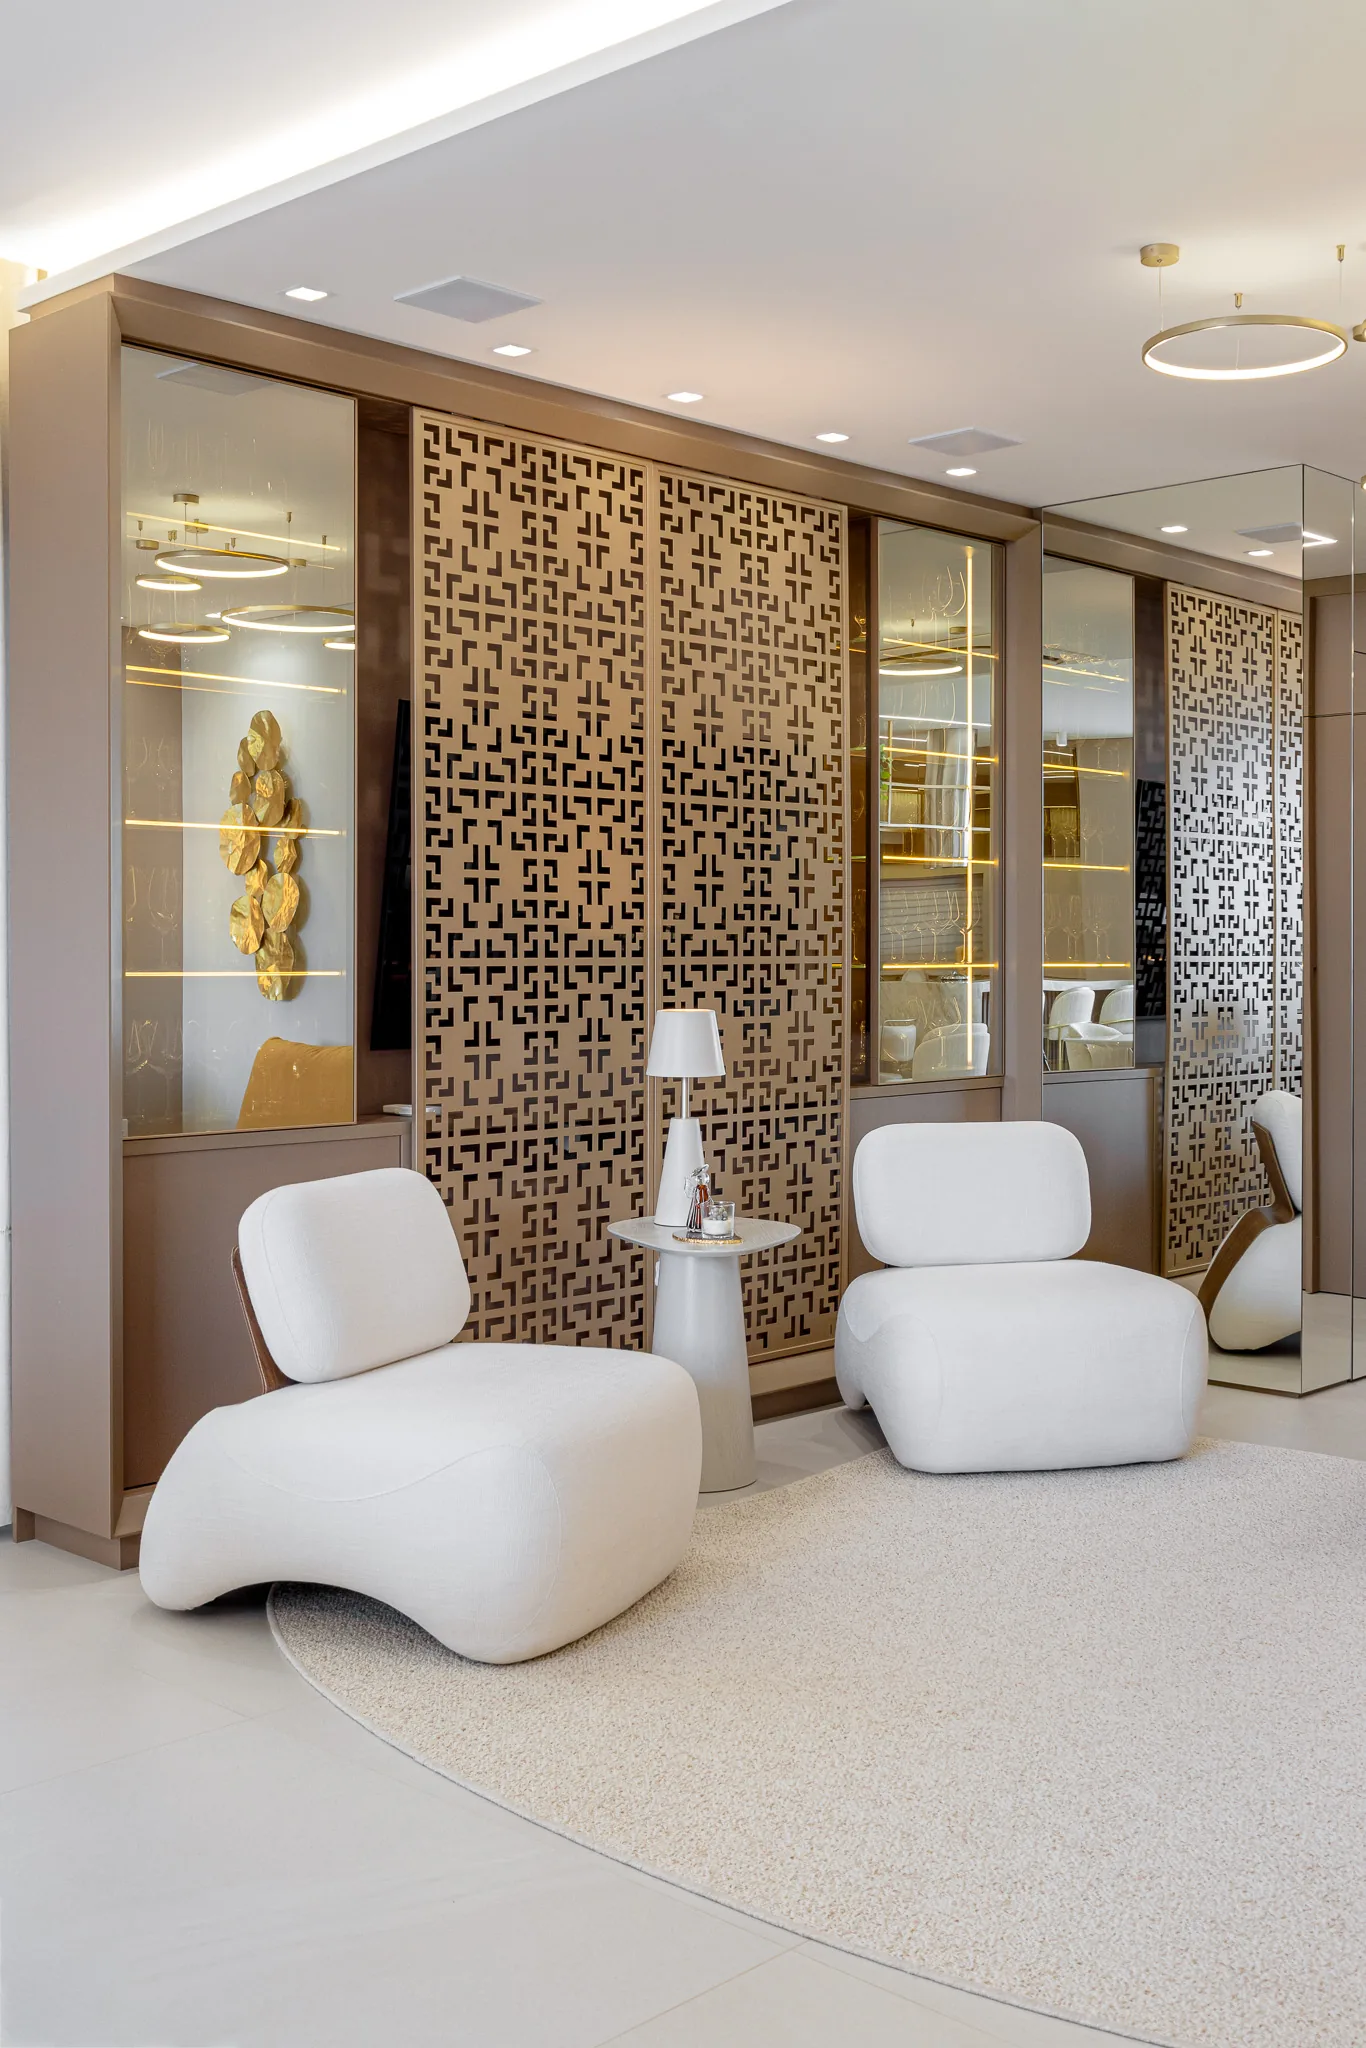
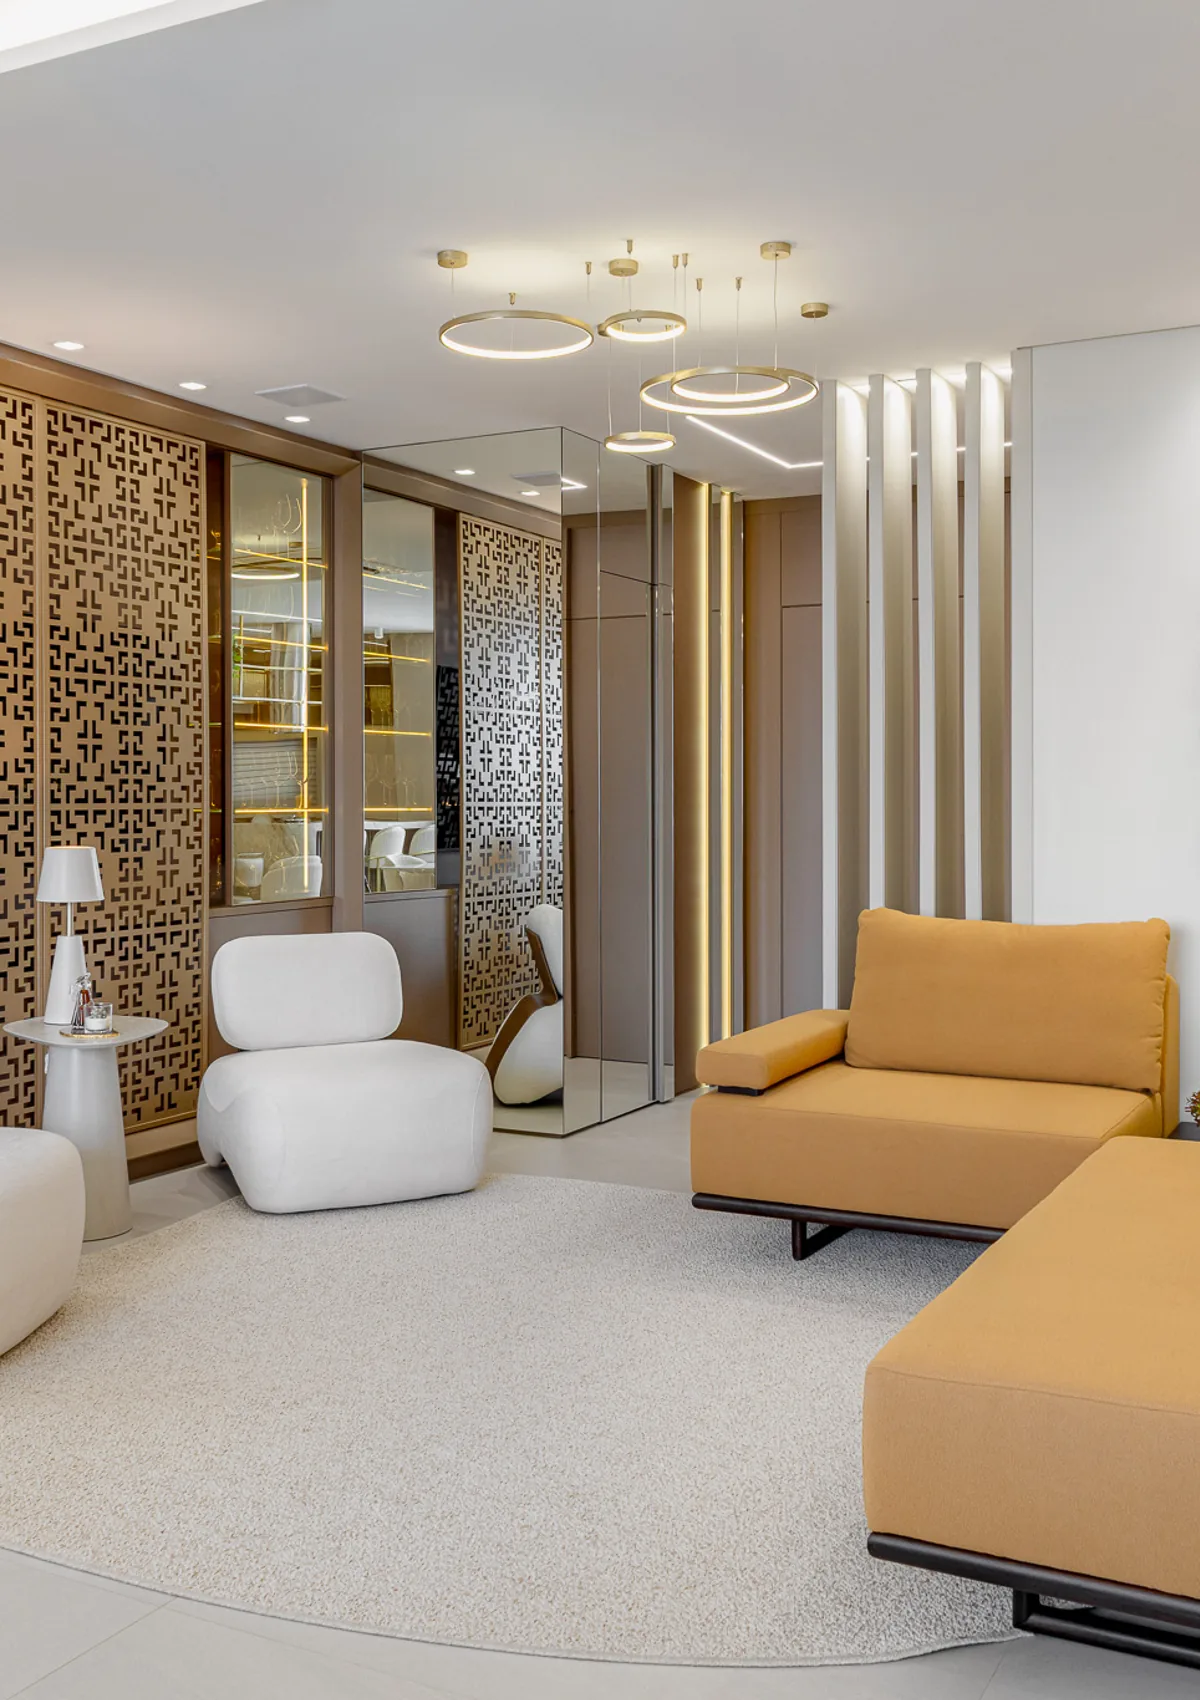
Nova headline, nova imagem de hero e menu mobile menor
Headline: "para interiores que ficam" era genérica e "ficar" é ambíguo
em português (durar? ficar bonito?). Agora "onde sua história vira
projeto", tirado do texto oficial da arquiteta ("cada projeto nasce das
histórias, vivências e necessidades de quem vai ocupá-lo"). Fala com o
cliente em vez de falar sobre o escritório. A primeira linha segue com
a palavra-chave, então o SEO não muda.

Removido o <br> fixo: com o texto novo ele forçava 3 linhas no desktop.
Sem ele, text-wrap:balance resolve em 2 linhas (2 a 3 no mobile).

Hero: a imagem passa a ser o estar da Cobertura Cura — tem profundidade
de ambiente, painel vazado em latão e cristaleira iluminada, com a área
esquerda calma o bastante para o texto. A anterior era a sala de jantar,
mais plana e com a mesa competindo com a headline. Recorte 3:4 próprio
para o mobile.

Menu mobile: os itens usavam 10vw e chegavam a 39px. Agora 24px.

diff --git a/site/index.html b/site/index.html
@@ -14,8 +14,8 @@
 <meta property="og:site_name" content="Mariana Costa Arquitetura">
 <meta property="og:image" content="https://marianacostaarquitetura.com.br/img/hero/hero-desktop.webp">
 <meta property="og:image:width" content="2048">
-<meta property="og:image:height" content="1361">
-<meta property="og:image:alt" content="Sala de jantar de cobertura projetada pelo escritório, com iluminação em latão">
+<meta property="og:image:height" content="1366">
+<meta property="og:image:alt" content="Estar de cobertura projetado pelo escritório, com painel vazado em latão">
 <meta name="twitter:card" content="summary_large_image">
 <meta property="og:locale" content="pt_BR">
 
@@ -170,8 +170,8 @@
 <section class="hero" id="top">
   <div class="hero__media">
     <picture>
-      <source media="(max-width: 820px)" type="image/webp" srcset="img/hero/hero-mobile.webp" width="1366" height="2048">
-      <img src="img/hero/hero-desktop.webp" width="2048" height="1361" alt="Projeto de interiores em Florianópolis: sala de jantar integrada de cobertura, com iluminação em latão e cozinha ao fundo" fetchpriority="high" decoding="async">
+      <source media="(max-width: 820px)" type="image/webp" srcset="img/hero/hero-mobile.webp" width="1200" height="1700">
+      <img src="img/hero/hero-desktop.webp" width="2048" height="1366" alt="Projeto de interiores em Florianópolis: estar de cobertura com poltronas escultóricas, painel vazado em latão e cristaleira iluminada" fetchpriority="high" decoding="async">
     </picture>
     <div class="hero__scrim"></div>
   </div>
@@ -180,7 +180,7 @@
     <p class="hero__eyebrow"><span class="rule"></span>Florianópolis · Santa Catarina</p>
 
     <h1 class="hero__title">
-      <span class="line"><span>Arquiteto em Florianópolis<br class="br-desk"> para <em>interiores</em> que ficam.</span></span>
+      <span class="line"><span>Arquiteto em Florianópolis onde sua <em>história</em> vira projeto.</span></span>
     </h1>
 
     <p class="hero__lede">Projetos residenciais e comerciais, da concepção

diff --git a/site/css/style.css b/site/css/style.css
@@ -256,11 +256,11 @@ body.menu-open .drawer{ opacity:1; visibility:visible; transform:none; }
 .drawer__links a{
   display:flex; align-items:baseline; gap:1.1rem;
   font-family:var(--display);
-  font-size:clamp(2rem,10vw,3rem);
-  font-weight:300; line-height:1.3;
+  font-size:clamp(1.5rem,5.5vw,2rem);
+  font-weight:300; line-height:1.25;
   color:var(--cal); text-decoration:none;
   border-bottom:1px solid var(--linha-cl);
-  padding:.5rem 0;
+  padding:.75rem 0;
 }
 .drawer__links em{
   font-family:var(--mono); font-style:normal;
@@ -340,7 +340,7 @@ body.menu-open .drawer{ opacity:1; visibility:visible; transform:none; }
   font-weight:300;
   line-height:.98;
   letter-spacing:-.022em;
-  max-width:22ch;
+  max-width:26ch;
   text-wrap:balance;
   margin:0 0 clamp(1.5rem,3vw,2.25rem);
 }
@@ -1098,9 +1098,6 @@ body.menu-open .drawer{ opacity:1; visibility:visible; transform:none; }
   }
   .about__list em{ align-self:flex-start; }
 
-  /* no mobile a headline flui sozinha. O <br> some, mas o espaço
-     que o segue no HTML permanece — sem ele as palavras colam. */
-  .hero__title .br-desk{ display:none; }
   .hero__title{ max-width:none; }
 
   .lb__bar{ padding:1rem; gap:1rem; }
